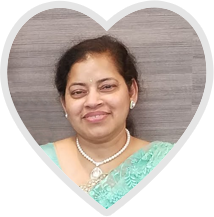
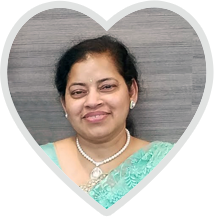
photo update

diff --git a/index.html b/index.html
@@ -226,7 +226,7 @@
 								<div class="item">
 									<div class="brd_grm_wrap">
 										<div class="family_mem_img">
-											<img src="img/family/meenu2.png" alt="" />
+											<img src="img/family/meenu3.png" alt="" />
 										</div>
 										<div class="heart_frame">
 											<img class="def_frm" src="img/family/family-mem-frm.png" alt="" />

diff --git a/style.css b/style.css
@@ -3297,7 +3297,7 @@ div.timeline_img:hover .inner-extra p{
 	padding-left:16px;
 	z-index:999999;
 	margin-top:-165px;
-	margin-left:15px;
+	margin-left:12px;
 	}
 
 .loader {
